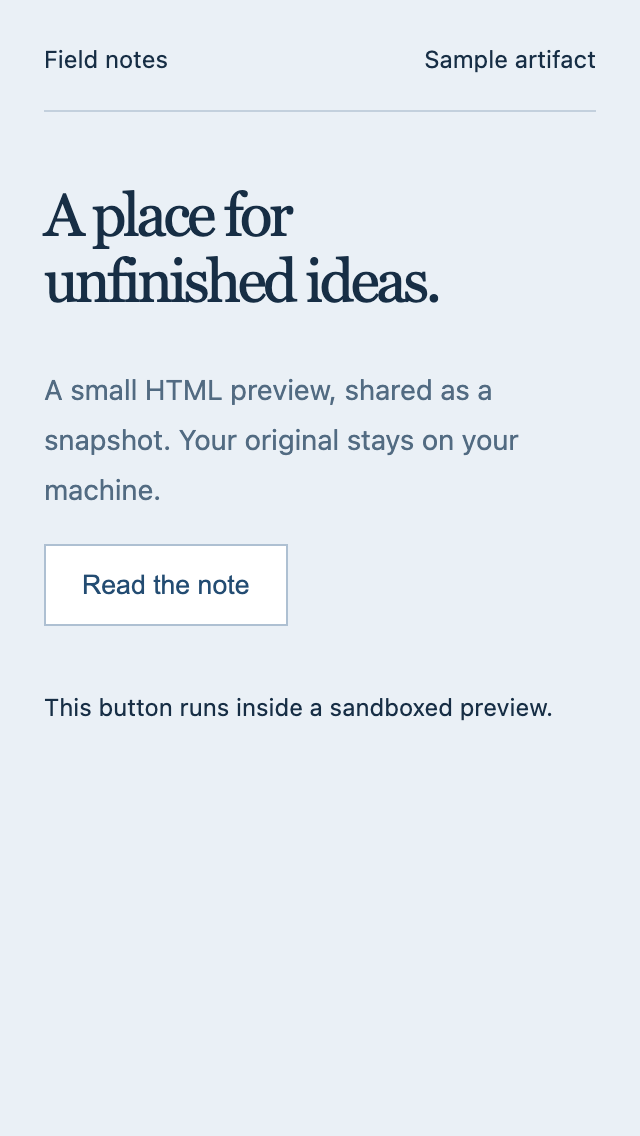
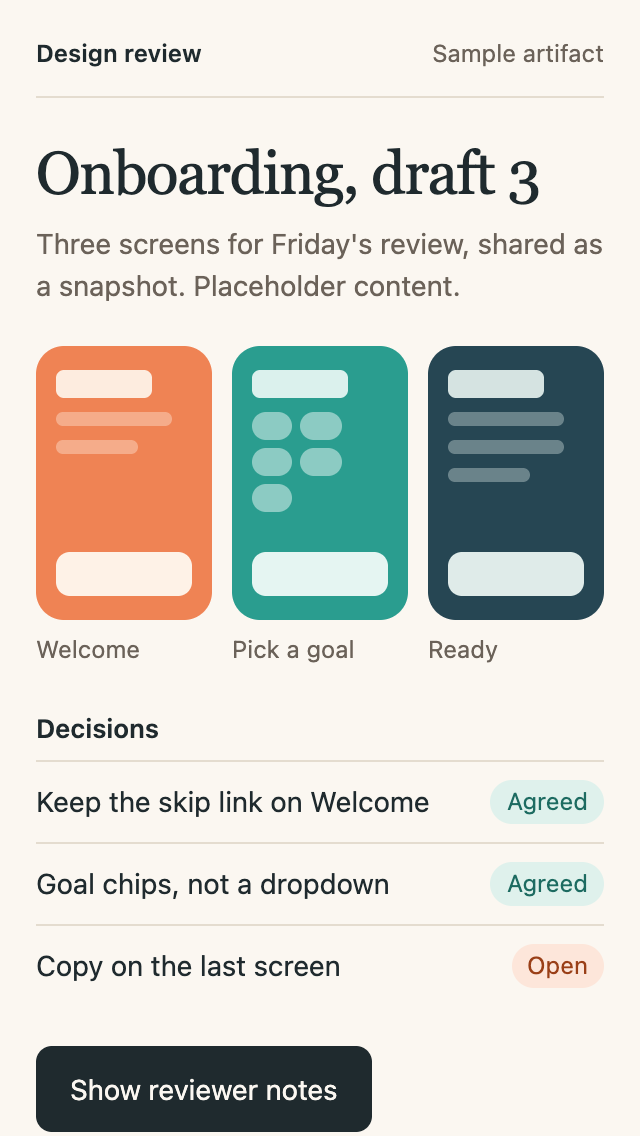
feat(examples): make the sample a real design-review page
The old sample filled a third of a phone screen in the site's own pale
blue-grey, so the landing's payoff read as empty paper.

The example is now a design review of three draft screens with
decisions: coloured, dense, marked "Sample artifact" and "Placeholder
content", with no figures that could pass for metrics. It still runs a
button inside the sandboxed preview. The website mirror carries the
same file and its phone capture from `tshare serve` (site commit
15d7bd3).

diff --git a/examples/preview.html b/examples/preview.html
@@ -1,1 +1,37 @@
-<!doctype html><html lang="en"><meta charset="utf-8"><meta name="viewport" content="width=device-width,initial-scale=1"><title>Field notes — sample page</title><style>body{margin:0;padding:clamp(22px,6vw,70px);background:#eaf0f6;color:#172e45;font-family:Georgia,serif}nav{font:12px system-ui;border-bottom:1px solid #c3d0dd;padding-bottom:18px}h1{font-size:clamp(30px,5vw,62px);font-weight:400;letter-spacing:-1.7px;line-height:1.1;margin:35px 0 25px}p{font:14px/1.8 system-ui;color:#526b82;max-width:400px}button{padding:12px 18px;border:1px solid #aec0d2;background:#fff;color:#234c72;cursor:pointer}article{padding-top:30px}small{font:12px system-ui}</style><nav>Field notes <span style="float:right">Sample artifact</span></nav><h1>A place for<br>unfinished ideas.</h1><p>A small HTML preview, shared as a snapshot. Your original stays on your machine.</p><button onclick="document.querySelector('article').hidden=false">Read the note</button><article hidden><small>This button runs inside a sandboxed preview.</small></article></html>
+<!doctype html><html lang="en"><meta charset="utf-8"><meta name="viewport" content="width=device-width,initial-scale=1"><title>Onboarding, draft 3 — sample design review</title>
+<style>
+body{margin:0;padding:clamp(18px,5vw,56px);background:#fbf7f1;color:#1f2a2e;font:15px/1.5 system-ui,sans-serif}
+header{display:flex;justify-content:space-between;gap:12px;font-size:12px;color:#6b6259;border-bottom:1px solid #e4dccf;padding-bottom:12px}
+header b{color:#1f2a2e;font-weight:600}
+h1{font:400 clamp(30px,6vw,56px)/1.05 Georgia,serif;letter-spacing:-.02em;margin:22px 0 8px}
+.meta{margin:0 0 20px;color:#6b6259;font-size:14px;max-width:46ch}
+.screens{display:grid;grid-template-columns:repeat(3,minmax(0,1fr));gap:10px;max-width:640px}
+.screen{border-radius:14px;padding:12px 10px;aspect-ratio:9/15;display:flex;flex-direction:column;gap:7px}
+.screen i{display:block;height:7px;border-radius:4px;background:currentColor;opacity:.35}
+.screen i.wide{width:85%}.screen i.mid{width:60%}.screen i.title{height:14px;width:70%;opacity:.9}
+.screen .chips{display:flex;flex-wrap:wrap;gap:4px}.screen .chips i{width:30%;height:14px;border-radius:7px;opacity:.5}
+.screen .cta{margin-top:auto;height:22px;border-radius:7px;background:currentColor;opacity:.95}
+.s1{background:#ef8354;color:#fff8ef}.s2{background:#2a9d8f;color:#effaf7}.s3{background:#264653;color:#e9f4f1}
+.labels{display:grid;grid-template-columns:repeat(3,minmax(0,1fr));gap:10px;max-width:640px;font-size:12px;color:#6b6259;margin:6px 0 22px}
+h2{font:600 13px system-ui,sans-serif;margin:0 0 8px}
+ul{list-style:none;margin:0 0 20px;padding:0;max-width:640px}
+li{display:flex;justify-content:space-between;gap:12px;padding:9px 0;border-top:1px solid #e4dccf;font-size:14px}
+li span{font-size:12px;padding:2px 8px;border-radius:999px;background:#dff1ec;color:#1d6b61;white-space:nowrap}
+li span.open{background:#fde6da;color:#9a3f17}
+button{padding:10px 16px;border:1px solid #1f2a2e;border-radius:8px;background:#1f2a2e;color:#fbf7f1;font:inherit;font-size:14px;cursor:pointer}
+article{margin-top:14px;font-size:13px;color:#6b6259;max-width:46ch}
+</style>
+<header><b>Design review</b><span>Sample artifact</span></header>
+<h1>Onboarding, draft 3</h1>
+<p class="meta">Three screens for Friday's review, shared as a snapshot. Placeholder content.</p>
+<div class="screens" aria-label="Three draft screens">
+<div class="screen s1"><i class="title"></i><i class="wide"></i><i class="mid"></i><div class="cta"></div></div>
+<div class="screen s2"><i class="title"></i><div class="chips"><i></i><i></i><i></i><i></i><i></i></div><div class="cta"></div></div>
+<div class="screen s3"><i class="title"></i><i class="wide"></i><i class="wide"></i><i class="mid"></i><div class="cta"></div></div>
+</div>
+<div class="labels"><span>Welcome</span><span>Pick a goal</span><span>Ready</span></div>
+<h2>Decisions</h2>
+<ul><li>Keep the skip link on Welcome<span>Agreed</span></li><li>Goal chips, not a dropdown<span>Agreed</span></li><li>Copy on the last screen<span class="open">Open</span></li></ul>
+<button onclick="document.querySelector('article').hidden=false">Show reviewer notes</button>
+<article hidden>Notes open inside the sandboxed preview. Replace this sample with your own file.</article>
+</html>

diff --git a/website/public/examples/preview.html b/website/public/examples/preview.html
@@ -1,1 +1,37 @@
-<!doctype html><html lang="en"><meta charset="utf-8"><meta name="viewport" content="width=device-width,initial-scale=1"><title>Field notes — sample page</title><style>body{margin:0;padding:clamp(22px,6vw,70px);background:#eaf0f6;color:#172e45;font-family:Georgia,serif}nav{font:12px system-ui;border-bottom:1px solid #c3d0dd;padding-bottom:18px}h1{font-size:clamp(30px,5vw,62px);font-weight:400;letter-spacing:-1.7px;line-height:1.1;margin:35px 0 25px}p{font:14px/1.8 system-ui;color:#526b82;max-width:400px}button{padding:12px 18px;border:1px solid #aec0d2;background:#fff;color:#234c72;cursor:pointer}article{padding-top:30px}small{font:12px system-ui}</style><nav>Field notes <span style="float:right">Sample artifact</span></nav><h1>A place for<br>unfinished ideas.</h1><p>A small HTML preview, shared as a snapshot. Your original stays on your machine.</p><button onclick="document.querySelector('article').hidden=false">Read the note</button><article hidden><small>This button runs inside a sandboxed preview.</small></article></html>
+<!doctype html><html lang="en"><meta charset="utf-8"><meta name="viewport" content="width=device-width,initial-scale=1"><title>Onboarding, draft 3 — sample design review</title>
+<style>
+body{margin:0;padding:clamp(18px,5vw,56px);background:#fbf7f1;color:#1f2a2e;font:15px/1.5 system-ui,sans-serif}
+header{display:flex;justify-content:space-between;gap:12px;font-size:12px;color:#6b6259;border-bottom:1px solid #e4dccf;padding-bottom:12px}
+header b{color:#1f2a2e;font-weight:600}
+h1{font:400 clamp(30px,6vw,56px)/1.05 Georgia,serif;letter-spacing:-.02em;margin:22px 0 8px}
+.meta{margin:0 0 20px;color:#6b6259;font-size:14px;max-width:46ch}
+.screens{display:grid;grid-template-columns:repeat(3,minmax(0,1fr));gap:10px;max-width:640px}
+.screen{border-radius:14px;padding:12px 10px;aspect-ratio:9/15;display:flex;flex-direction:column;gap:7px}
+.screen i{display:block;height:7px;border-radius:4px;background:currentColor;opacity:.35}
+.screen i.wide{width:85%}.screen i.mid{width:60%}.screen i.title{height:14px;width:70%;opacity:.9}
+.screen .chips{display:flex;flex-wrap:wrap;gap:4px}.screen .chips i{width:30%;height:14px;border-radius:7px;opacity:.5}
+.screen .cta{margin-top:auto;height:22px;border-radius:7px;background:currentColor;opacity:.95}
+.s1{background:#ef8354;color:#fff8ef}.s2{background:#2a9d8f;color:#effaf7}.s3{background:#264653;color:#e9f4f1}
+.labels{display:grid;grid-template-columns:repeat(3,minmax(0,1fr));gap:10px;max-width:640px;font-size:12px;color:#6b6259;margin:6px 0 22px}
+h2{font:600 13px system-ui,sans-serif;margin:0 0 8px}
+ul{list-style:none;margin:0 0 20px;padding:0;max-width:640px}
+li{display:flex;justify-content:space-between;gap:12px;padding:9px 0;border-top:1px solid #e4dccf;font-size:14px}
+li span{font-size:12px;padding:2px 8px;border-radius:999px;background:#dff1ec;color:#1d6b61;white-space:nowrap}
+li span.open{background:#fde6da;color:#9a3f17}
+button{padding:10px 16px;border:1px solid #1f2a2e;border-radius:8px;background:#1f2a2e;color:#fbf7f1;font:inherit;font-size:14px;cursor:pointer}
+article{margin-top:14px;font-size:13px;color:#6b6259;max-width:46ch}
+</style>
+<header><b>Design review</b><span>Sample artifact</span></header>
+<h1>Onboarding, draft 3</h1>
+<p class="meta">Three screens for Friday's review, shared as a snapshot. Placeholder content.</p>
+<div class="screens" aria-label="Three draft screens">
+<div class="screen s1"><i class="title"></i><i class="wide"></i><i class="mid"></i><div class="cta"></div></div>
+<div class="screen s2"><i class="title"></i><div class="chips"><i></i><i></i><i></i><i></i><i></i></div><div class="cta"></div></div>
+<div class="screen s3"><i class="title"></i><i class="wide"></i><i class="wide"></i><i class="mid"></i><div class="cta"></div></div>
+</div>
+<div class="labels"><span>Welcome</span><span>Pick a goal</span><span>Ready</span></div>
+<h2>Decisions</h2>
+<ul><li>Keep the skip link on Welcome<span>Agreed</span></li><li>Goal chips, not a dropdown<span>Agreed</span></li><li>Copy on the last screen<span class="open">Open</span></li></ul>
+<button onclick="document.querySelector('article').hidden=false">Show reviewer notes</button>
+<article hidden>Notes open inside the sandboxed preview. Replace this sample with your own file.</article>
+</html>
